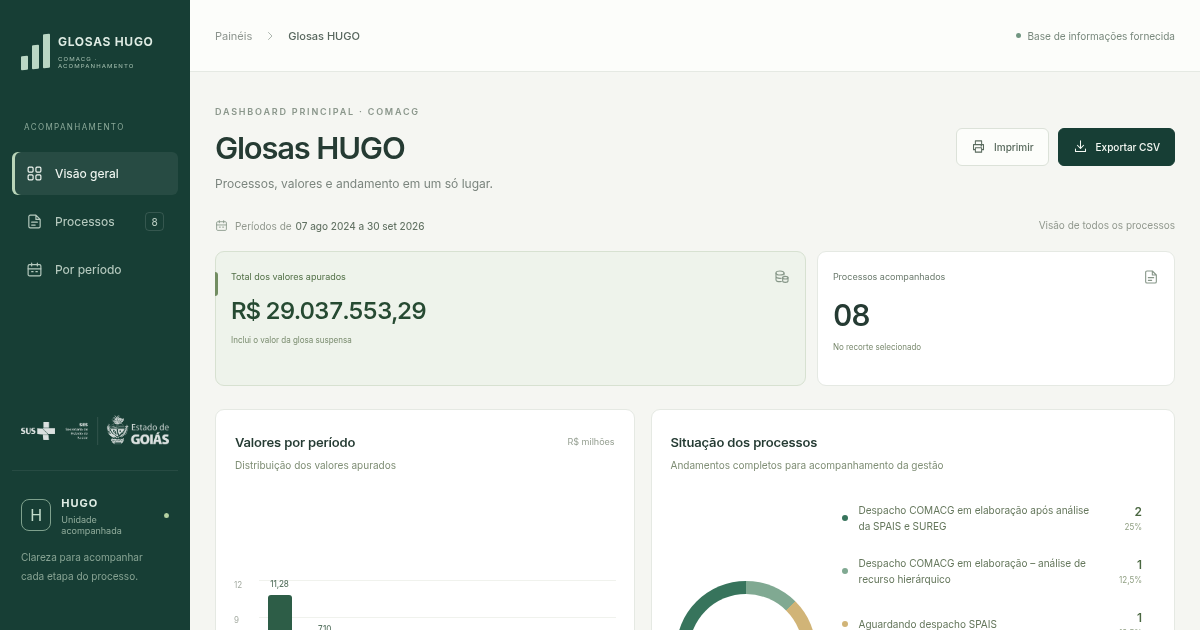
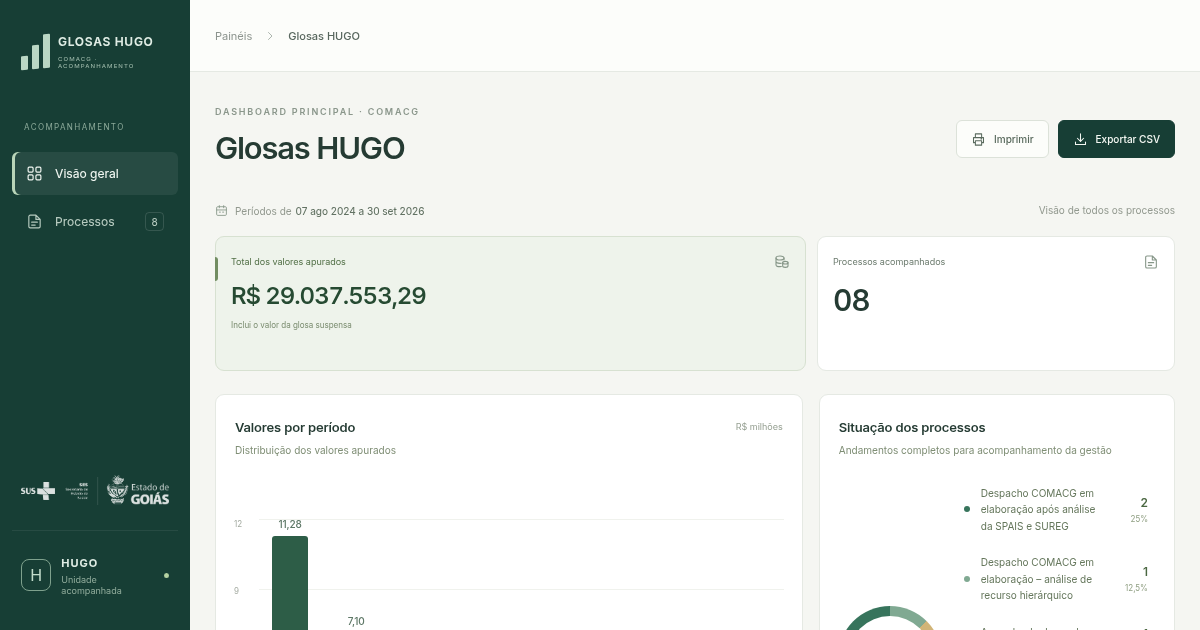
Simplifica painel e amplia gráfico dos valores

diff --git a/index.html b/index.html
@@ -7,7 +7,7 @@
   <meta name="description" content="Glosas HUGO: dashboard principal de acompanhamento COMACG, com processos SEI, períodos, valores apurados e andamento.">
   <title>Glosas HUGO | Dashboard COMACG</title>
   <meta property="og:title" content="Glosas HUGO · Dashboard COMACG">
-  <meta property="og:description" content="Processos, valores e andamento em um só lugar.">
+  <meta property="og:description" content="Glosas HUGO · Acompanhamento COMACG.">
   <meta property="og:type" content="website">
   <meta property="og:image" content="https://glosas-hugo.netlify.app/assets/glosas-hugo-capa.png">
   <meta name="twitter:card" content="summary_large_image">
@@ -40,17 +40,17 @@
 <aside class="sidebar" aria-label="Navegação principal">
  <a class="brand" href="#overview" aria-label="Glosas HUGO, dashboard principal"><span class="brand-mark"><i></i><i></i><i></i></span><span>GLOSAS HUGO<small>COMACG · ACOMPANHAMENTO</small></span></a>
  <div class="nav-label">ACOMPANHAMENTO</div>
- <nav><a class="nav-item active" href="#overview" data-nav="overview"><svg><use href="#i-grid"/></svg>Visão geral</a><a class="nav-item" href="#processes" data-nav="processes"><svg><use href="#i-file"/></svg>Processos<span class="nav-count">8</span></a><a class="nav-item" href="#periods" data-nav="periods"><svg><use href="#i-calendar"/></svg>Por período</a></nav>
- <div class="sidebar-bottom"><img class="official-logo" src="assets/logo-ses-clara.png" alt="SUS · Secretaria da Saúde · Goiás"><div class="sidebar-context"><span class="context-icon">H</span><div><strong>HUGO</strong><small>Unidade acompanhada</small></div><span class="context-dot"></span></div><p>Clareza para acompanhar<br>cada etapa do processo.</p></div>
+ <nav><a class="nav-item active" href="#overview" data-nav="overview"><svg><use href="#i-grid"/></svg>Visão geral</a><a class="nav-item" href="#processes" data-nav="processes"><svg><use href="#i-file"/></svg>Processos<span class="nav-count">8</span></a></nav>
+ <div class="sidebar-bottom"><img class="official-logo" src="assets/logo-ses-clara.png" alt="SUS · Secretaria da Saúde · Goiás"><div class="sidebar-context"><span class="context-icon">H</span><div><strong>HUGO</strong><small>Unidade acompanhada</small></div><span class="context-dot"></span></div></div>
 </aside>
 <div class="app-shell">
- <header class="topbar"><div class="breadcrumb">Painéis<svg><use href="#i-chevron"/></svg><strong>Glosas HUGO</strong></div><span class="source-label"><span></span>Base de informações fornecida</span></header>
+ <header class="topbar"><div class="breadcrumb">Painéis<svg><use href="#i-chevron"/></svg><strong>Glosas HUGO</strong></div></header>
  <main id="main">
-  <section class="page-heading" id="overview"><div><span class="eyebrow">DASHBOARD PRINCIPAL · COMACG</span><h1>Glosas HUGO</h1><p>Processos, valores e andamento em um só lugar.</p></div><div class="heading-actions"><button class="button secondary" id="printButton"><svg><use href="#i-print"/></svg>Imprimir</button><button class="button primary" id="exportButton"><svg><use href="#i-download"/></svg>Exportar CSV</button></div></section>
+  <section class="page-heading" id="overview"><div><span class="eyebrow">DASHBOARD PRINCIPAL · COMACG</span><h1>Glosas HUGO</h1></div><div class="heading-actions"><button class="button secondary" id="printButton"><svg><use href="#i-print"/></svg>Imprimir</button><button class="button primary" id="exportButton"><svg><use href="#i-download"/></svg>Exportar CSV</button></div></section>
   <div class="scope-line"><span><svg><use href="#i-calendar"/></svg>Períodos de <strong>07 ago 2024 a 30 set 2026</strong></span><span id="scopeText">Visão de todos os processos</span></div>
   <section class="metrics" aria-label="Resumo dos processos" aria-live="polite">
    <article class="metric metric-featured"><div class="metric-label">Total dos valores apurados<svg><use href="#i-coins"/></svg></div><div class="metric-value" id="metricTotal">R$ 29.037.553,29</div><div class="metric-note" id="metricTotalNote">Inclui o valor da glosa suspensa</div></article>
-   <article class="metric"><div class="metric-label">Processos acompanhados<svg><use href="#i-file"/></svg></div><div class="metric-value" id="metricCount">08</div><div class="metric-note">No recorte selecionado</div></article>
+   <article class="metric"><div class="metric-label">Processos acompanhados<svg><use href="#i-file"/></svg></div><div class="metric-value" id="metricCount">08</div></article>
   </section>
   <section class="analytics" aria-label="Visão dos valores e situações">
    <article class="panel financial-panel" id="periods"><div class="panel-heading"><div><h2>Valores por período</h2><p>Distribuição dos valores apurados</p></div><span class="unit-label">R$ milhões</span></div><div class="chart-wrap"><div class="chart-axis" aria-hidden="true"><span>12</span><span>9</span><span>6</span><span>3</span><span>0</span></div><div class="bar-chart" id="barChart" aria-label="Valores apurados por período"></div></div><div class="chart-foot"><span><i class="legend-square"></i>Valor apurado</span><span><i class="legend-empty"></i>Valor não apurado</span></div></article>

diff --git a/styles.css b/styles.css
@@ -22,13 +22,20 @@ dialog{position:fixed;inset:0 0 0 auto;max-height:100dvh;height:100dvh;width:min
 
 /* Management summary and complete process situations. */
 .metrics{grid-template-columns:minmax(0,1.65fr) minmax(0,1fr)}
-.analytics{grid-template-columns:minmax(0,1fr) minmax(0,1.25fr)}
+.analytics{--plot-height:280px;grid-template-columns:minmax(0,1.65fr) minmax(0,1fr)}
 .financial-panel{display:flex;flex-direction:column}
-.financial-panel .chart-wrap{margin-block:auto}
+.financial-panel .chart-wrap{margin-block:auto;height:calc(var(--plot-height) + 76px)}
+.financial-panel .chart-axis,.financial-panel .bar-space{height:var(--plot-height)}
+.financial-panel .bar-chart{background:repeating-linear-gradient(to top,transparent 0,transparent calc(var(--plot-height)/4 - 1px),#f0f2ed calc(var(--plot-height)/4 - 1px),#f0f2ed calc(var(--plot-height)/4));background-size:100% var(--plot-height);background-repeat:no-repeat}
+.financial-panel .bar{width:36px;flex-shrink:0}
+.financial-panel .bar-label{font-size:10px}
+.financial-panel .bar-value{font-size:10px}
 .financial-panel .chart-foot{margin-top:0}
-.situation-content{padding:20px 24px;gap:18px;justify-content:flex-start}
-.donut{width:140px;height:140px}
-.donut:after{width:114px;height:114px}
+.situation-content{padding:18px;gap:14px;justify-content:flex-start}
+.donut{width:104px;height:104px}
+.donut:after{width:84px;height:84px}
+.donut strong{font-size:28px}
+.donut span{font-size:8px}
 .situation-legend{max-width:none;gap:2px}
 .legend-button{display:grid;grid-template-columns:7px minmax(0,1fr) 30px;gap:10px;padding:8px 7px;align-items:center;border:1px solid transparent;border-radius:5px;font-size:10px;line-height:1.65;color:#65775c}
 .legend-button:hover{background:#f6f8f2}
@@ -53,7 +60,7 @@ th[aria-sort]{color:#416a49}
 @media screen and (max-width:1180px){
  .analytics{grid-template-columns:minmax(0,1fr)}
  .financial-panel .chart-wrap{margin-block:0}
- .situation-content{gap:30px;padding:20px 28px}
+ .situation-content{gap:24px;padding:20px 24px}
  .legend-button{font-size:11px}
 }
 @media screen and (max-width:580px){
@@ -64,6 +71,11 @@ th[aria-sort]{color:#416a49}
  .metric:not(.metric-featured) .metric-note{grid-column:1;grid-row:2;font-size:9px;align-self:start;margin-top:5px}
  .metric:not(.metric-featured) .metric-value{grid-column:2;grid-row:1/3;margin:0;font-size:32px}
  .situation-content{flex-direction:column;gap:20px;padding:25px 17px 17px}
+ .analytics{--plot-height:210px}
+ .financial-panel .chart-wrap{height:calc(var(--plot-height) + 68px)!important}
+ .financial-panel .bar{width:24px}
+ .financial-panel .bar-label,.financial-panel .bar-value{font-size:7px}
+ .metric:not(.metric-featured) .metric-label{grid-row:1/3;align-self:center}
  .situation-legend{width:100%}
  .legend-button{font-size:10px;padding:9px 4px;gap:9px}
  .legend-stat strong{font-size:12px}

diff --git a/app.js b/app.js
@@ -88,9 +88,9 @@
       const value = row.cents === null ? 'N/A' : new Intl.NumberFormat('pt-BR', {
         minimumFractionDigits: 2, maximumFractionDigits: 2
       }).format(row.cents / 100000000);
-      const height = row.cents === null ? 12 : (row.cents / 1200000000) * 149;
+      const height = row.cents === null ? '12px' : `${row.cents / 1200000000 * 100}%`;
       const label = row.cents === null ? 'valor não apurado' : currency(row.cents);
-      return `<button class="bar-column ${row.cents === null ? 'missing' : ''}" data-detail="${row.id}" title="${row.label} ${row.year}: ${label}" aria-label="${row.label} ${row.year}, ${label}, abrir processo ${row.id}"><span class="bar-space"><span class="bar-value">${value}</span><span class="bar" style="height:${height}px"></span></span><span class="bar-label">${row.label}</span><span class="bar-year">${row.year}</span></button>`;
+      return `<button class="bar-column ${row.cents === null ? 'missing' : ''}" data-detail="${row.id}" title="${row.label} ${row.year}: ${label}" aria-label="${row.label} ${row.year}, ${label}, abrir processo ${row.id}"><span class="bar-space"><span class="bar-value">${value}</span><span class="bar" style="height:${height}"></span></span><span class="bar-label">${row.label}</span><span class="bar-year">${row.year}</span></button>`;
     }).join('');
     if (!current.length) $('barChart').innerHTML = '<span class="chart-empty">Nenhum processo neste recorte</span>';
 
@@ -132,7 +132,7 @@
     $('resultBadge').textContent = current.length;
     $('resultText').textContent = `Exibindo ${current.length} de ${records.length} processos`;
     $('scopeText').textContent = (year === 'all' && status === 'all' && !search) ? 'Visão de todos os processos' :
-      `${current.length} ${current.length === 1 ? 'processo no' : 'processos no'} recorte selecionado`;
+      'Filtros aplicados';
     $('clearFilters').hidden = year === 'all' && status === 'all' && !search && $('sortSelect').value === 'period-asc';
     $('statusFilter').title = $('statusFilter').selectedOptions[0].textContent;
     document.querySelectorAll('[data-year]').forEach(button => {
